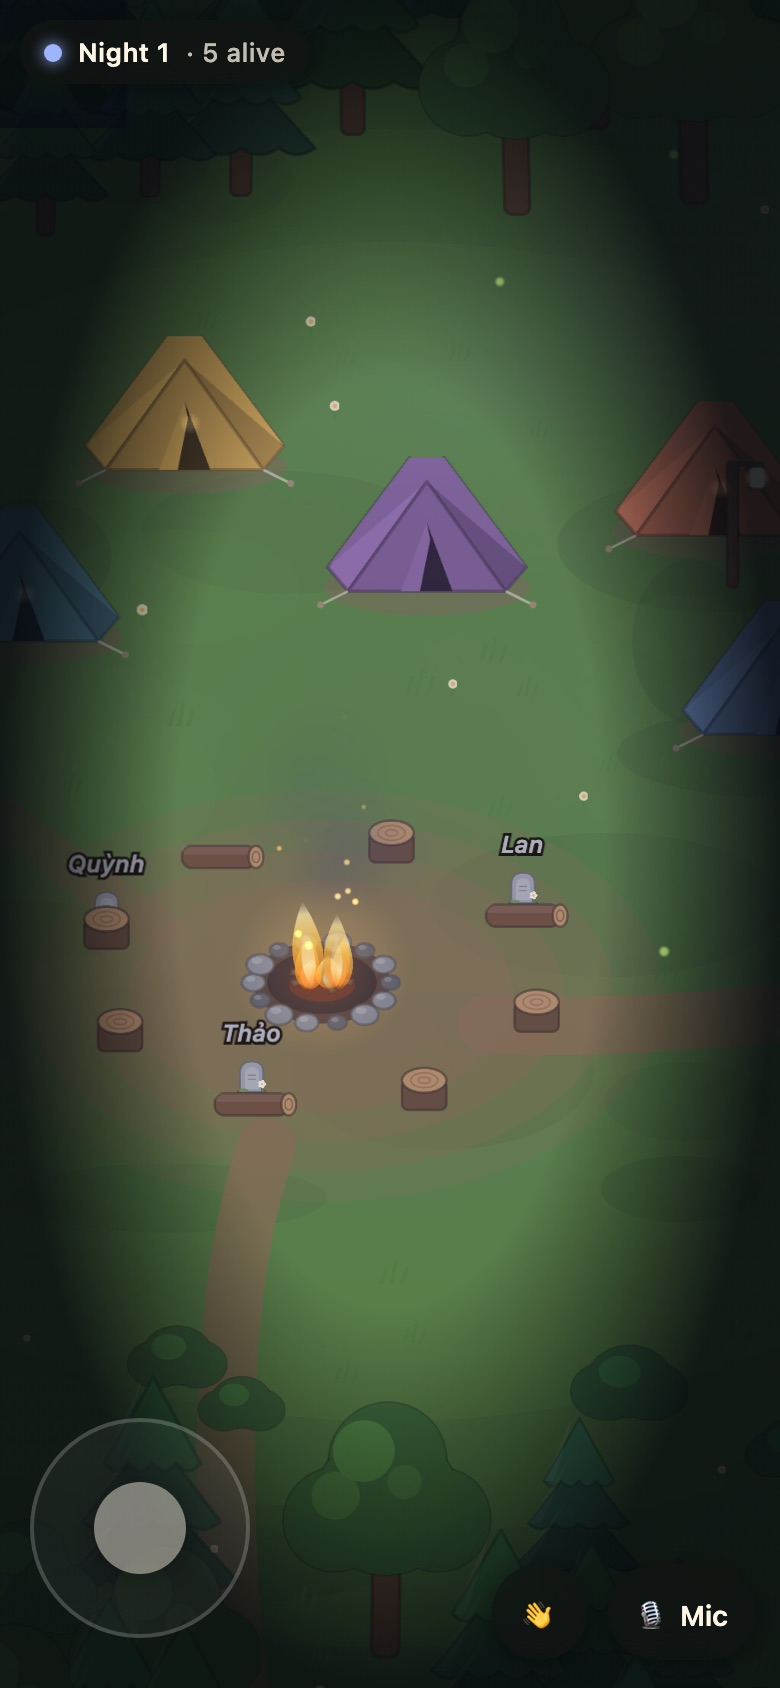
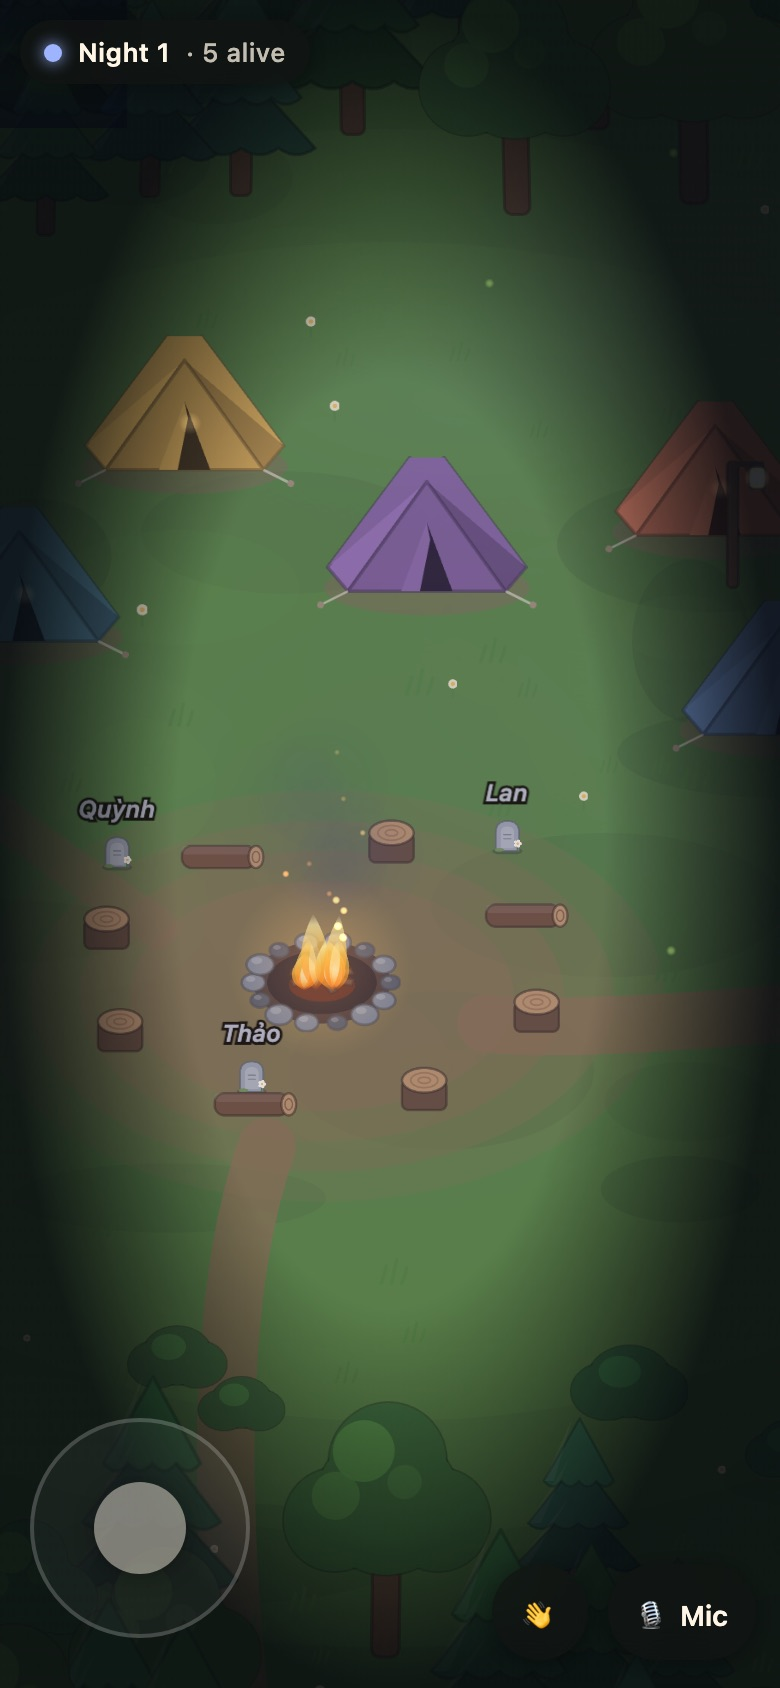
docs/visual/dawn: memorial layout captures at the UI slot sizes (375/390 + laptop, Normal + Halloween, survivor + ghost), refreshed memorial/race frames, run log, limits

Changed region(s): [[0.0923, 0.4621, 0.2154, 0.5545], [0.6154, 0.4621, 0.7077, 0.5545], [0.3692, 0.5237, 0.4615, 0.5853]]

diff --git a/docs/visual/dawn/README.md b/docs/visual/dawn/README.md
@@ -40,3 +40,25 @@ branch at ab7a683 (memorials included). `packages/scene/scripts/dawn-check.mjs` 
 - **Perceptual, untested**: whether the small stone reads as a memorial at phone scale (the name carries identity; in
   11-16 player rings some side stones stand lower behind their stump), whether the tent beat is noticed at a glance on a phone, whether the 2.5-8 s dawn pacing
   matches the UI announcement, whether players read the wisp as "this seat died" (no role or cause shown, by design).
+
+## Memorial layout fix (visual-memorial-fix)
+
+Prompted by the UI owner's combined captures (game-ui-dawn 407f06d): a memorial name stacked on a camper label and a
+stone half-hidden behind the camper in front at phone size. Now stones stand at the nearest clear spot by their seat
+(never touching another seat's camper, in front or behind, a pumpkin or another stone), camper labels keep off stones,
+and memorial names are placed around their stone clear of camper labels, campers, stones and other names (leader line
+when moved; hidden rather than overlapping when nothing is clear).
+
+- `layout/layout-{slot375x253,slot390x428,laptop}[-halloween]-{survivor,ghost}-t10.jpg`: 3 dead seats at the UI's
+  scene-slot sizes (top bar 56 px; 375x667 also the chat row 64 px), dev page, Chromium emulation. `layout/dawn-check.json`:
+  every run asserts with the real screen boxes from `debugSeats()` that no memorial name or stone overlaps a camper label,
+  a camper (head box), a stone or another name: all OK, 3/3 names placed in every run. Memorial and race after-frames
+  refreshed with the new stone spots.
+- Unit tests (`test/memorial.test.ts`, node mirror of the label pass in `test/helpers/label-sim.ts`, 4-16 players, four
+  death sets): zero overlaps and every name shown at 390x844, laptop and the whole-camp ghost view; negative control
+  (names placed without obstacles) is caught.
+- **Limits at 375x667 with the chat row (133 px of camp):** (1) with heavy death sets a few memorial names are hidden
+  rather than overlapping (5 of 54 with every third seat dead, 8 of 84 with all but two dead; none with 1-2 deaths);
+  (2) **pre-existing, not from this bundle:** the camper-label resolver already leaves 19 camper-label overlaps there
+  with no deaths at all (rooms of 10+); there, two camper labels can touch a stone. Known limit for the owner.
+- Not shown: the real UI (top bar, chat row, panels) with these memorials; the UI owner's exact assertion on the merged SHA.
